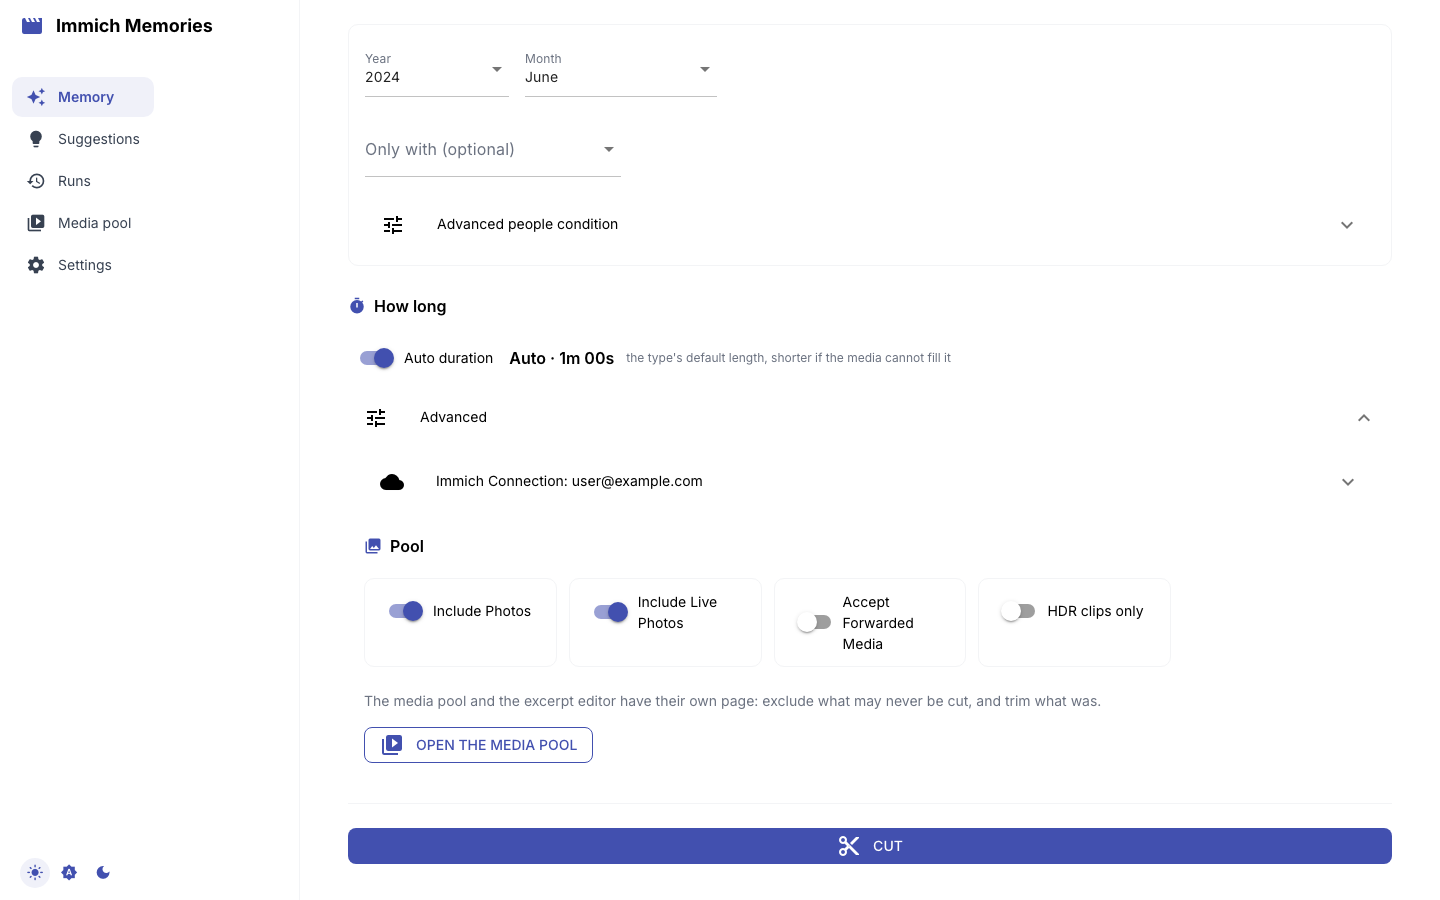
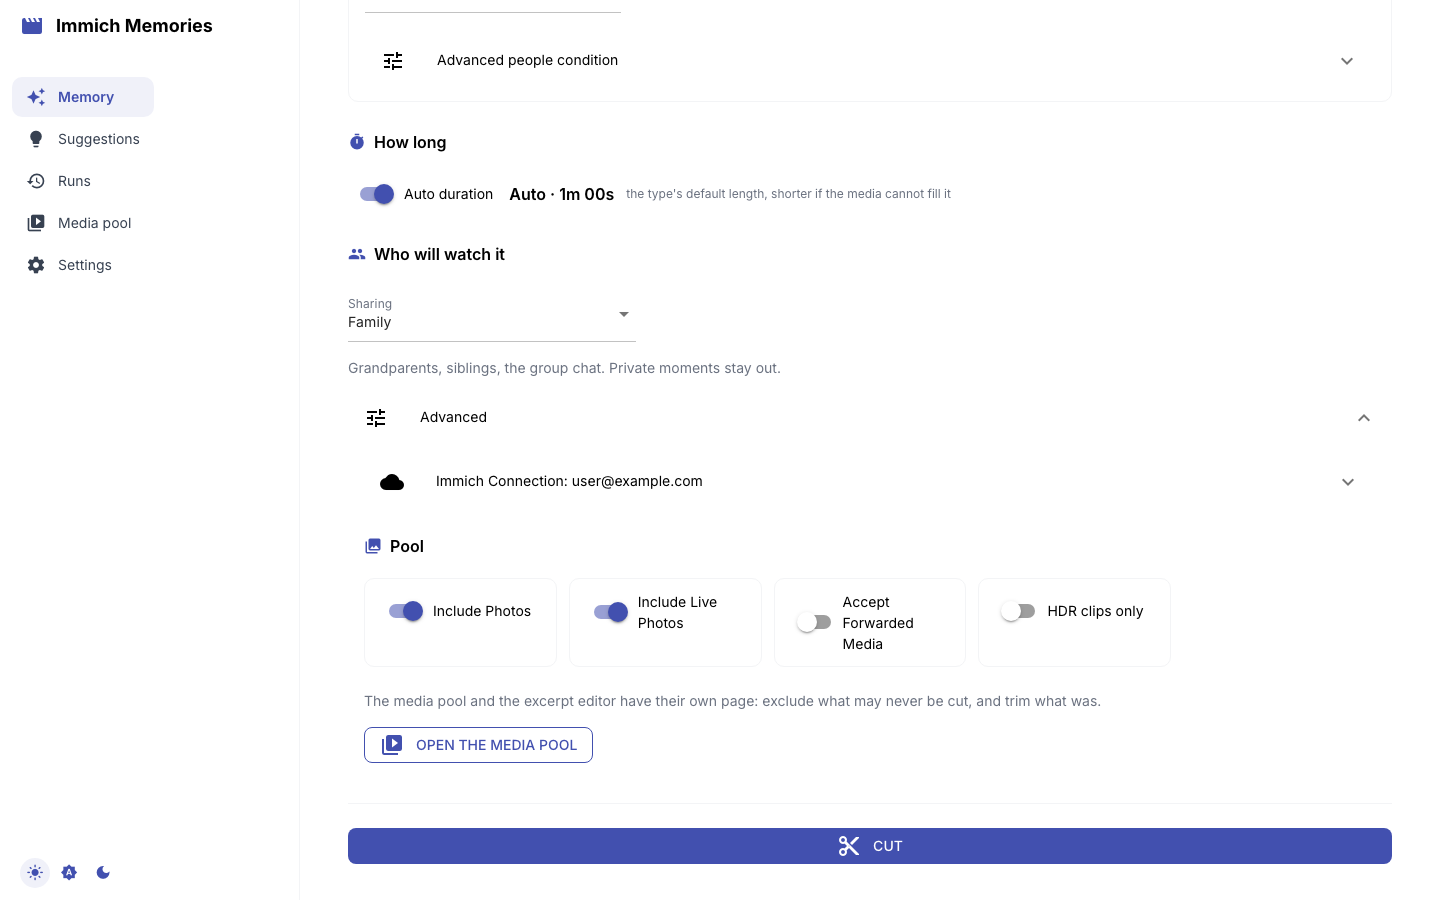
docs(sharing): who a film is for, with the brief's recipe screenshot (#1325)
Claude-Session: https://claude.ai/code/session_01JtwzzzTCNKKE5pDy1H1RTQ

diff --git a/tests/e2e/test_screenshots.py b/tests/e2e/test_screenshots.py
@@ -191,3 +191,16 @@ def test_capture_automation_walkthrough(page: Page, launch_app_url: str, launch_
     from tests.e2e.test_automation_pages import test_choose_generate_and_read_the_same_automatic_run
 
     test_choose_generate_and_read_the_same_automatic_run(page, launch_app_url, launch_workspace)
+
+
+@pytest.mark.parametrize("theme", _THEMES)
+def test_capture_sharing_levels(page: Page, launch_app_url: str, screenshot_dir: Path, theme: str):
+    """Who will watch it: the brief's sharing level, open on its three choices (#1325)."""
+    _open_brief(page, launch_app_url)
+    set_theme(page, theme)
+    _open_brief(page, launch_app_url)
+    _choose(page, "Memory type", "Monthly Highlights")
+    _choose(page, "Month", "June")
+    _choose(page, "Sharing", "Just us")
+    expect(page.get_by_text("The household.", exact=False)).to_be_visible()
+    _save(page, screenshot_dir, _name("memory-brief-sharing", theme))

diff --git a/tests/e2e/test_sharing_levels.py b/tests/e2e/test_sharing_levels.py
@@ -48,11 +48,11 @@ def test_the_brief_asks_who_will_watch_and_the_cut_is_made_for_them(
     page: Page, launch_app_url: str, launch_workspace
 ) -> None:
     _brief_for_june(page, launch_app_url)
-    who = page.get_by_role("combobox", name="Who will watch it")
+    who = page.get_by_role("combobox", name="Sharing")
     expect(who).to_have_value("Family")
     expect(page.get_by_text("Grandparents, siblings, the group chat.", exact=False)).to_be_visible()
 
-    _choose(page, "Who will watch it", "Just us")
+    _choose(page, "Sharing", "Just us")
     expect(page.get_by_text("The household.", exact=False)).to_be_visible()
     before = _attempts(launch_workspace)
     page.get_by_role("button", name="Cut", exact=True).click()

diff --git a/src/immich_memories/ui/pages/memory_brief.py b/src/immich_memories/ui/pages/memory_brief.py
@@ -133,7 +133,7 @@ def _render_type_select(state: AppState, params: ui.column) -> None:
 
 def _render_sharing(state: AppState) -> None:
     level = chosen_sharing(state)
-    select = ui.select(options=SHARING_LABELS, label="Who will watch it", value=level)
+    select = ui.select(options=SHARING_LABELS, label="Sharing", value=level)
     select.classes("w-72")
     line = ui.label(_SHARING_LINES[level]).classes("text-sm sharing-line")
     line.style("color: var(--im-text-secondary)")

diff --git a/docs-site/docs/reference/cli-reference.md b/docs-site/docs/reference/cli-reference.md
@@ -301,6 +301,7 @@ immich-memories generate [OPTIONS]
 | `--trace-selection` | file | - | Write a stage-by-stage report of how the clips were chosen |
 | `--include` | text | - | Keep this picture in the cut even if the editor would drop it (repeatable) |
 | `--exclude` | text | - | Leave this picture out of the cut (repeatable) |
+| `--sharing` | choice: `just-us` \| `family` \| `shareable` | - | Who the film is for: just-us (the household), family (default: defaults.sharing) or shareable (anyone) |
 | `--upload-to-immich` | boolean | false | Upload generated video back to Immich |
 | `--album` | text | - | Immich album name for uploaded video |
 | `--add-date` | boolean | false | Caption each clip with its date |

diff --git a/docs-site/docs/how-it-chooses/overrule-it.md b/docs-site/docs/how-it-chooses/overrule-it.md
@@ -2,6 +2,8 @@
 title: Overrule it
 ---
 
+import ThemedScreenshot from '@site/src/components/ThemedScreenshot';
+
 # Overrule it
 
 Reader: power user, with a newcomer summary first.
@@ -61,6 +63,8 @@ The CLI does the same with `generate --include ASSET_ID` and `--exclude ASSET_ID
 The web pool's ticks live in your session; **Start over** forgets them.
 
 ## Pick who it's for
+
+<ThemedScreenshot name="memory-brief-sharing" alt="The brief's Sharing select on Just us" />
 
 Each film is cut for one sharing level: **Who will watch it** in the brief, `generate --sharing`, and
 `defaults.sharing` for the rest (`family` unless you change it).
